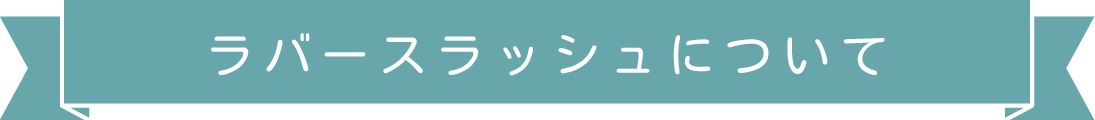
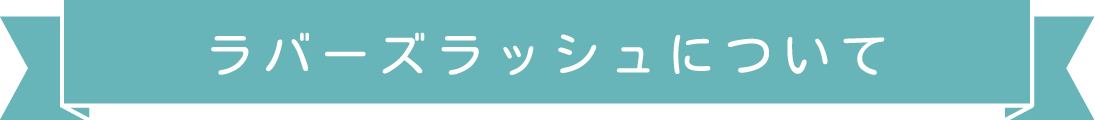
title、リボン画像変更

diff --git a/about.html b/about.html
@@ -4,7 +4,7 @@
     <meta charset="utf-8" />
     <meta http-equiv="X-UA-Compatible" content="IE=edge" />
     <meta name="viewport" content="width=device-width,initial-scale=1.0" />
-    <title>ABOUT｜ラバーズラッシュ｜和倉温泉近く</title>
+    <title>ラバーズラッシュについて｜ラバーズラッシュ｜和倉温泉近く</title>
     <!-- standard -->
     <meta name="format-detection" content="telephone=no" />
     <meta

diff --git a/cat_trimming.html b/cat_trimming.html
@@ -4,7 +4,7 @@
     <meta charset="utf-8" />
     <meta http-equiv="X-UA-Compatible" content="IE=edge" />
     <meta name="viewport" content="width=device-width,initial-scale=1.0" />
-    <title>CAT TRIMMING｜ラバーズラッシュ｜和倉温泉近く</title>
+    <title>猫のトリミング｜ラバーズラッシュ｜和倉温泉近く</title>
     <!-- standard -->
     <meta name="format-detection" content="telephone=no" />
     <meta

diff --git a/dog_trimming.html b/dog_trimming.html
@@ -4,7 +4,7 @@
     <meta charset="utf-8" />
     <meta http-equiv="X-UA-Compatible" content="IE=edge" />
     <meta name="viewport" content="width=device-width,initial-scale=1.0" />
-    <title>DOG TRIMMING｜ラバーズラッシュ｜和倉温泉近く</title>
+    <title>犬のトリミング｜ラバーズラッシュ｜和倉温泉近く</title>
     <!-- standard -->
     <meta name="format-detection" content="telephone=no" />
     <meta

diff --git a/cat_hotel.html b/cat_hotel.html
@@ -4,7 +4,7 @@
     <meta charset="utf-8" />
     <meta http-equiv="X-UA-Compatible" content="IE=edge" />
     <meta name="viewport" content="width=device-width,initial-scale=1.0" />
-    <title>CAT HOTEL｜ラバーズラッシュ｜和倉温泉近く</title>
+    <title>猫専用ホテル｜ラバーズラッシュ｜和倉温泉近く</title>
     <!-- standard -->
     <meta name="format-detection" content="telephone=no" />
     <meta

diff --git a/dog_hotel.html b/dog_hotel.html
@@ -4,7 +4,7 @@
     <meta charset="utf-8" />
     <meta http-equiv="X-UA-Compatible" content="IE=edge" />
     <meta name="viewport" content="width=device-width,initial-scale=1.0" />
-    <title>DOG HOTEL｜ラバーズラッシュ｜和倉温泉近く</title>
+    <title>犬専用ホテル｜ラバーズラッシュ｜和倉温泉近く</title>
     <!-- standard -->
     <meta name="format-detection" content="telephone=no" />
     <meta

diff --git a/shop.html b/shop.html
@@ -4,7 +4,7 @@
     <meta charset="utf-8" />
     <meta http-equiv="X-UA-Compatible" content="IE=edge" />
     <meta name="viewport" content="width=device-width,initial-scale=1.0" />
-    <title>SHOP｜ラバーズラッシュ｜和倉温泉近くH</title>
+    <title>店舗情報｜ラバーズラッシュ｜和倉温泉近くH</title>
     <!-- standard -->
     <meta name="format-detection" content="telephone=no" />
     <meta
